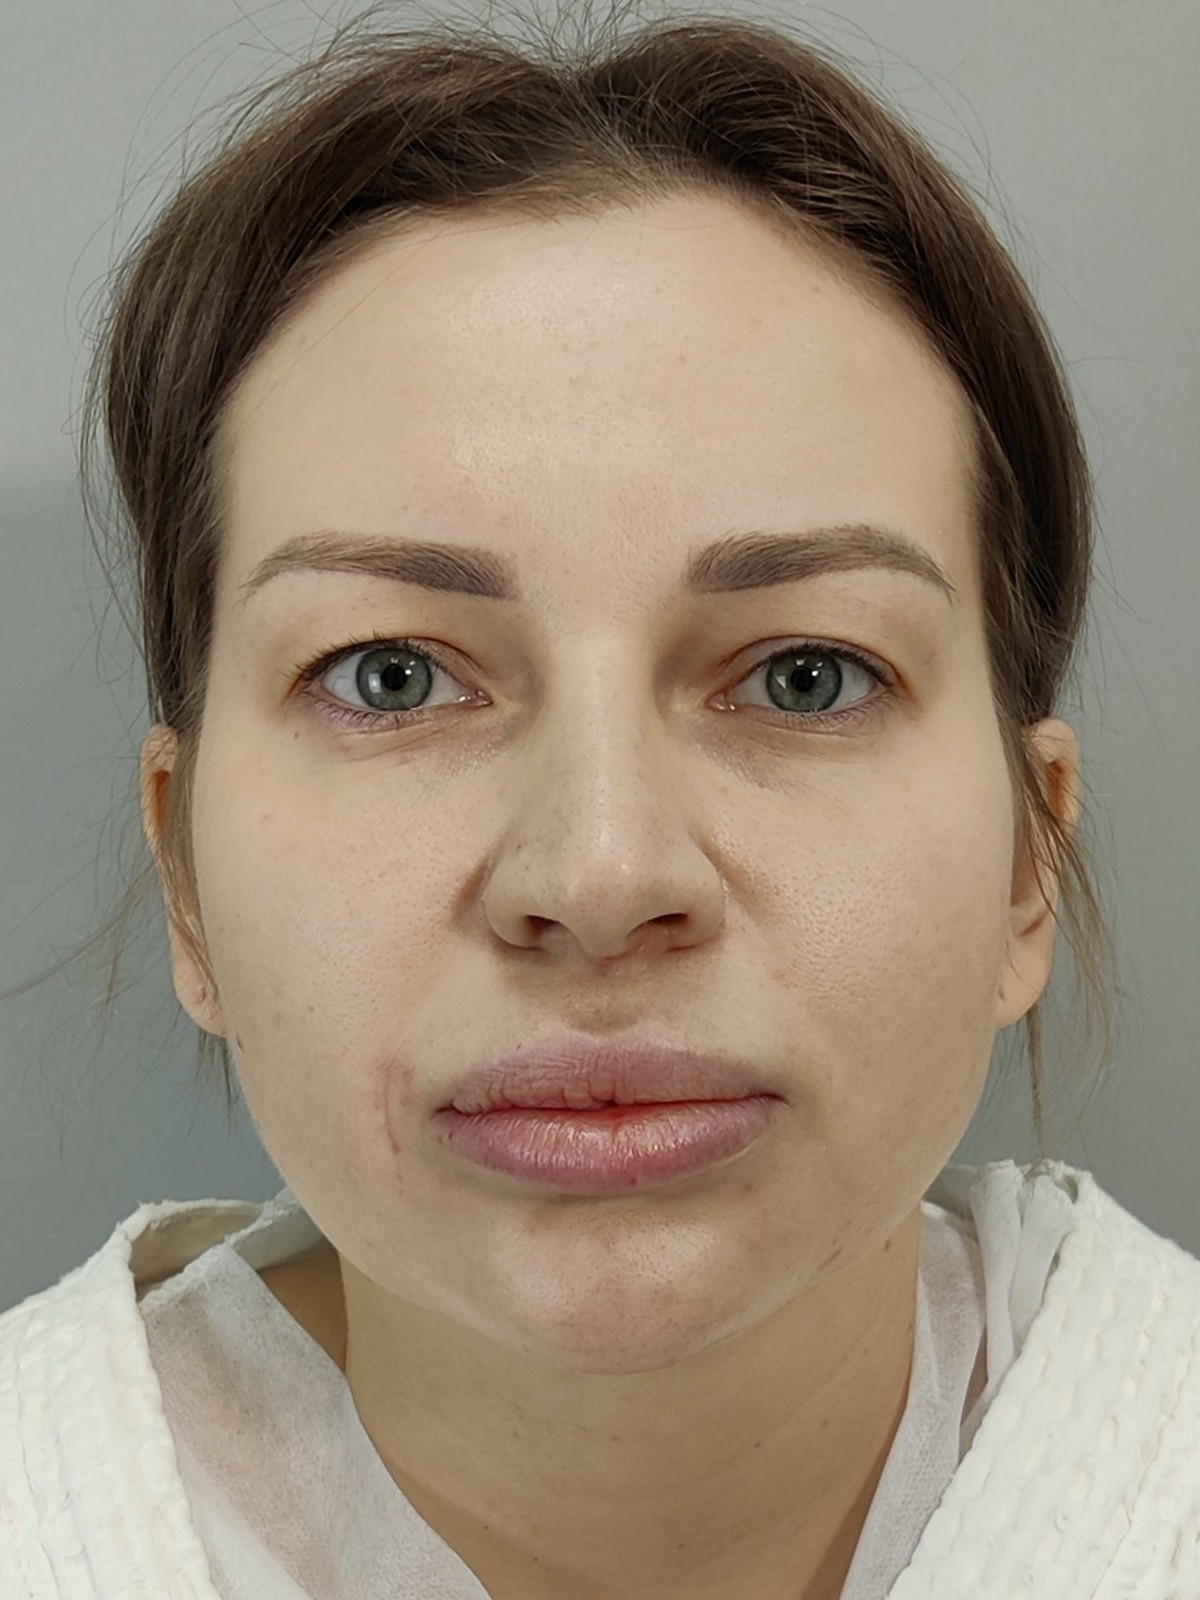
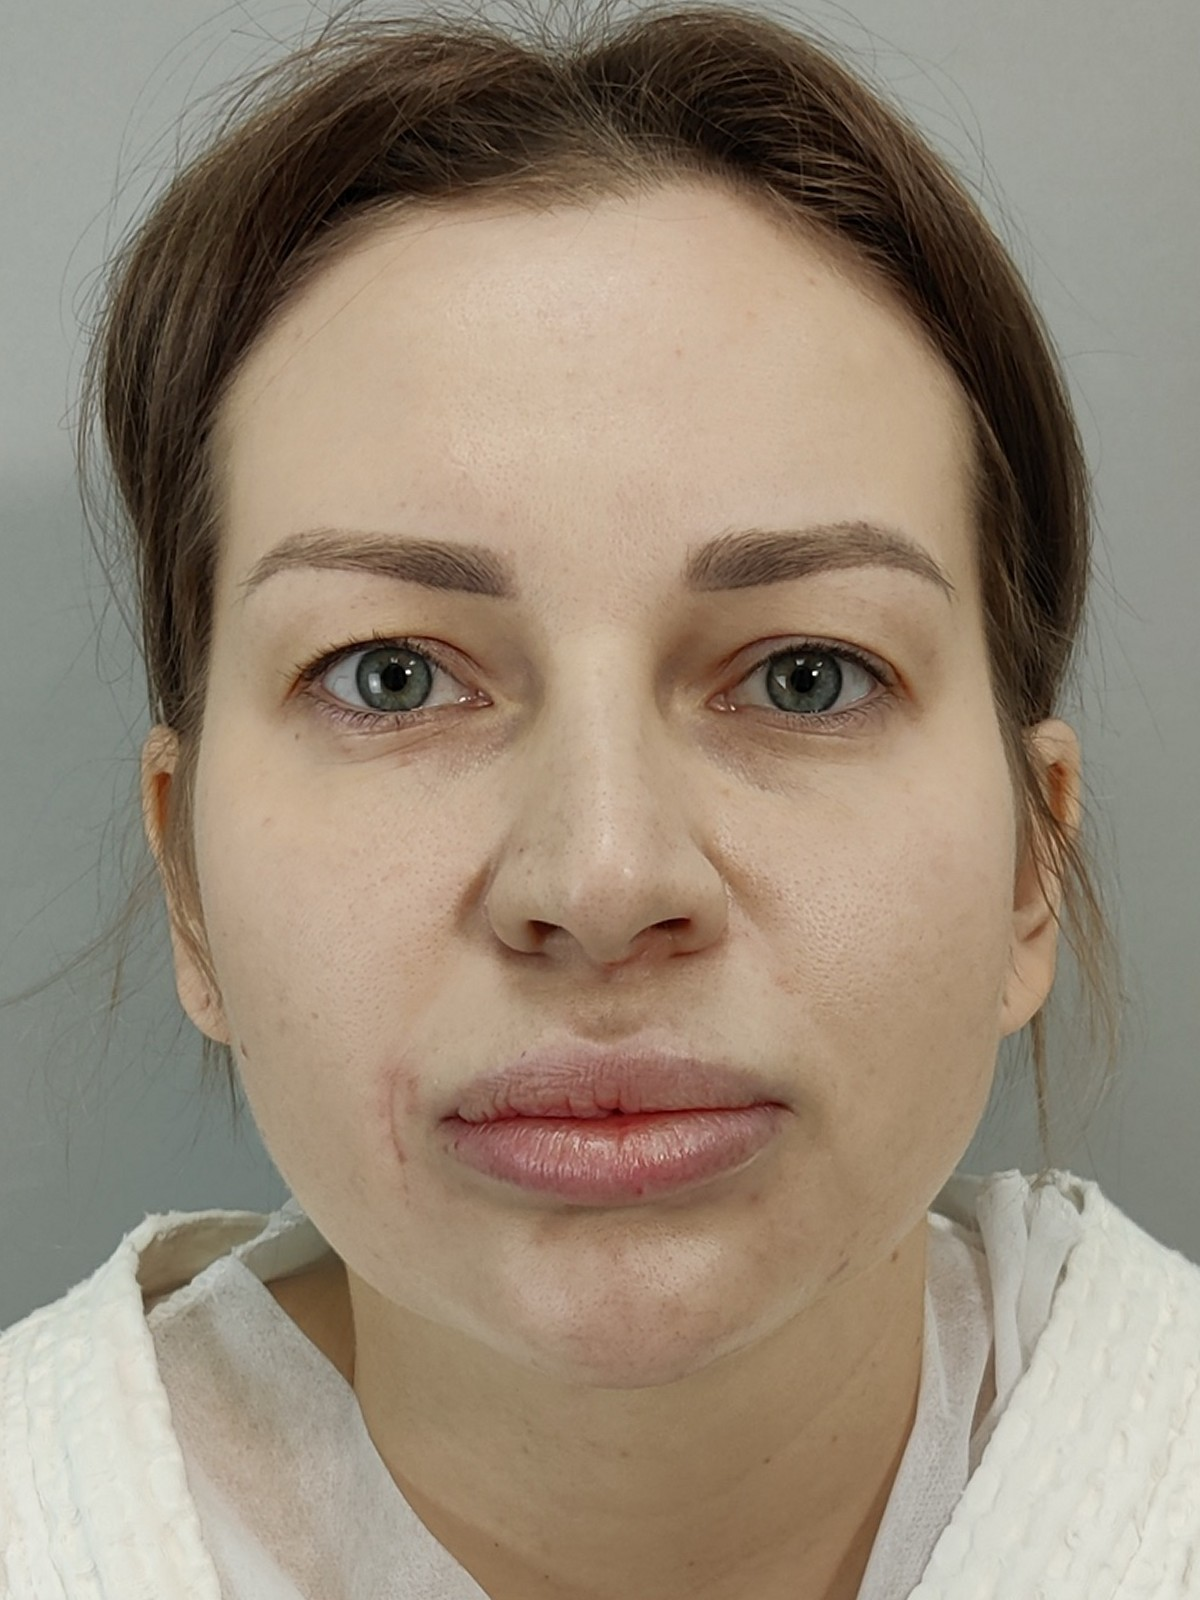
Align upper blepharoplasty pairs 4,5,7,8 on pupils plus mouth
Compensates camera distance/pitch: lips now line up as well as the eyes.

diff --git a/app.js b/app.js
@@ -181,7 +181,7 @@
     if (!rail || !stage) return;
 
     // Bump when case photos are replaced under the same file name, so browsers don't show cached old ones.
-    var PHOTO_V = '?v=35';
+    var PHOTO_V = '?v=36';
     var CASES = [
       { proc: 'Блефаропластика', title: 'Верхняя блефаропластика', task: 'Тяжёлое верхнее веко, взгляд читается уставшим.', did: 'Иссечение избытка кожи верхнего века, разрез в естественной складке.', result: 'Взгляд открытый, форма глаза сохранена.', term: '3 месяца', expert: '<span>«Развести избыток кожи, опущение брови и птоз — главная задача консультации.</span> <span>От этого зависит весь план.»</span>', photos: [
         { before: 'assets/cases/blepharoplasty-upper-6-before.jpg', after: 'assets/cases/blepharoplasty-upper-6-after.jpg' },

diff --git a/index.html b/index.html
@@ -557,7 +557,7 @@
 <script src="ap5-figure.js?v=29"></script>
 <script src="availability.js?v=29"></script>
 <script src="booking.js?v=29"></script>
-<script src="app.js?v=35"></script>
+<script src="app.js?v=36"></script>
 
 <!-- Motion system — loads after app.js so dynamically-created elements
      (rail buttons, subnav, booking panels) already exist in the DOM. -->
